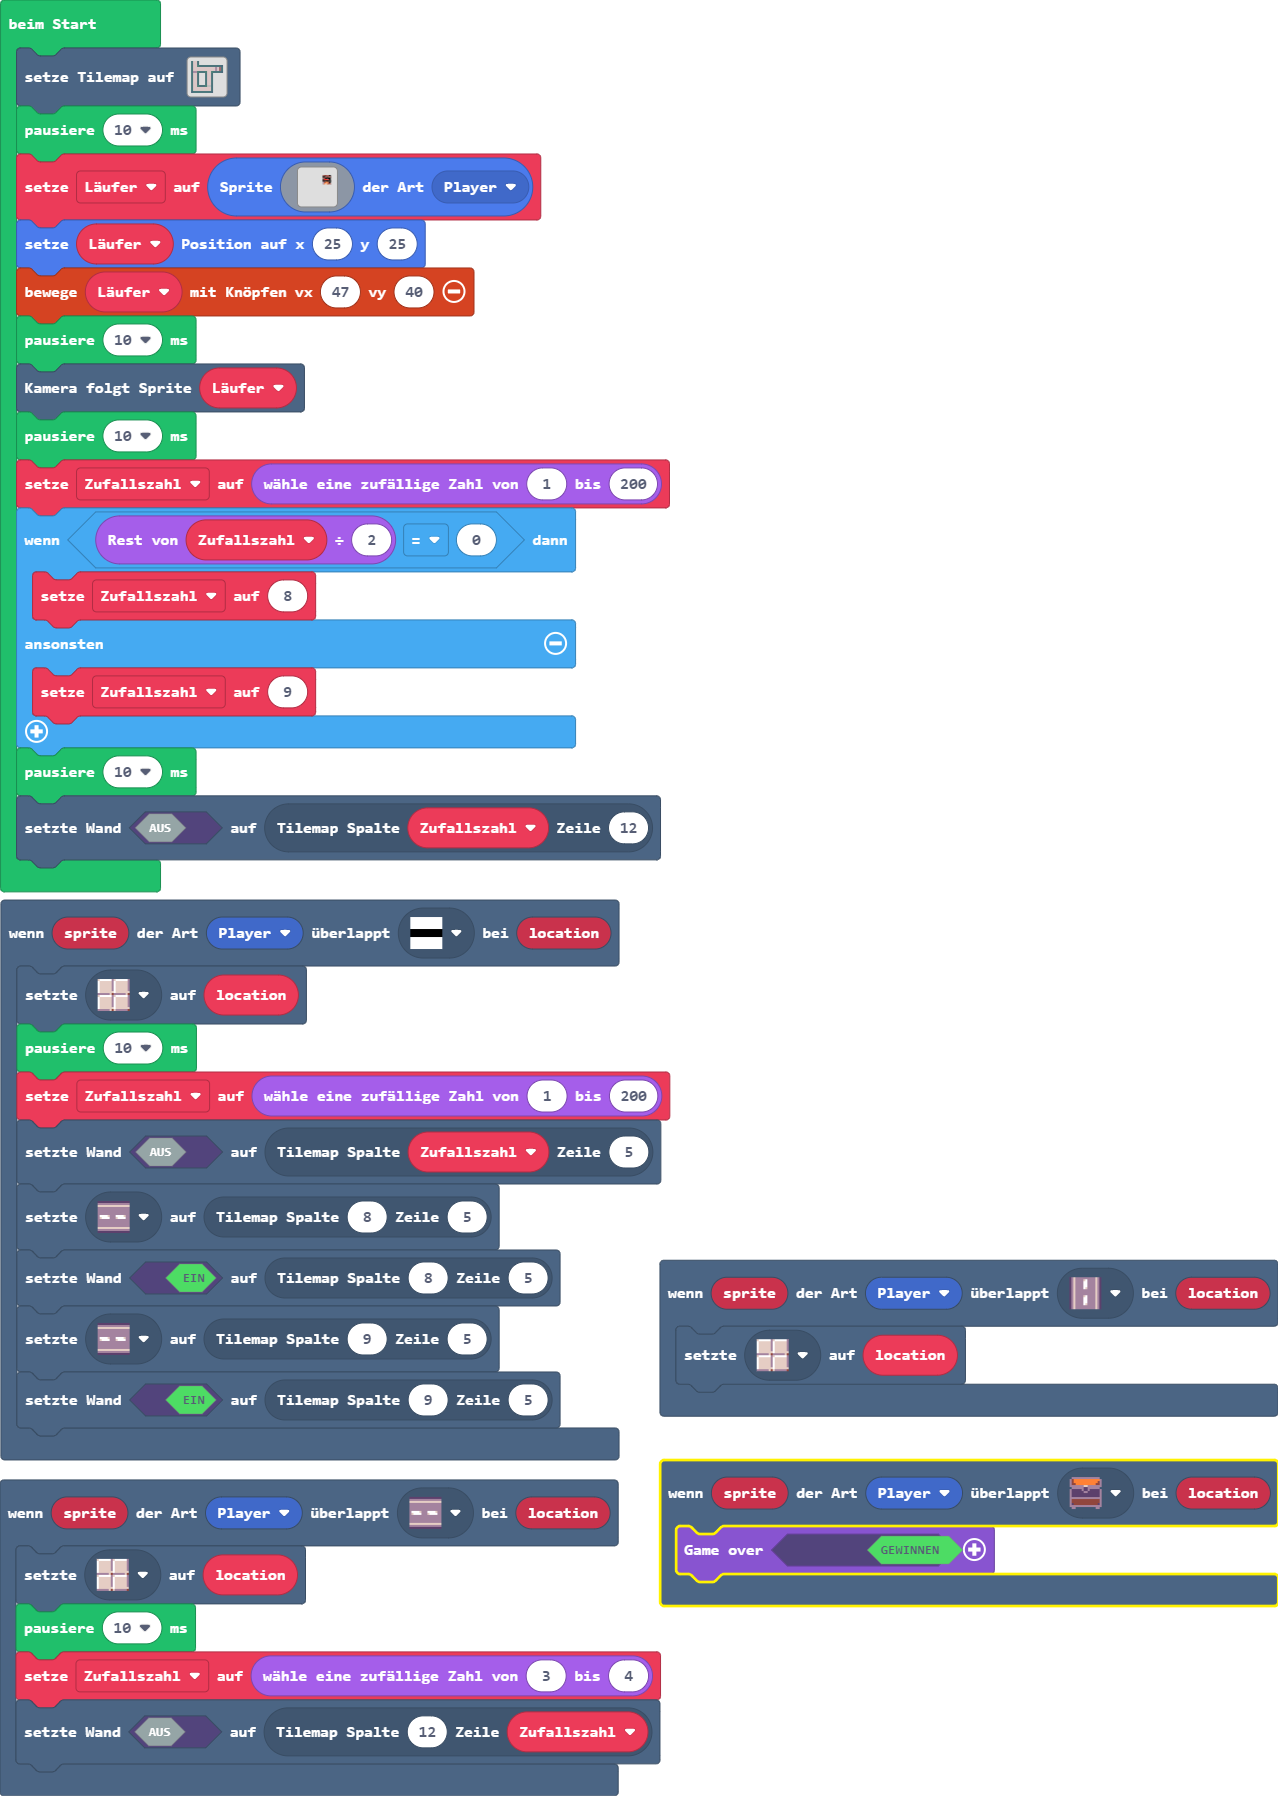
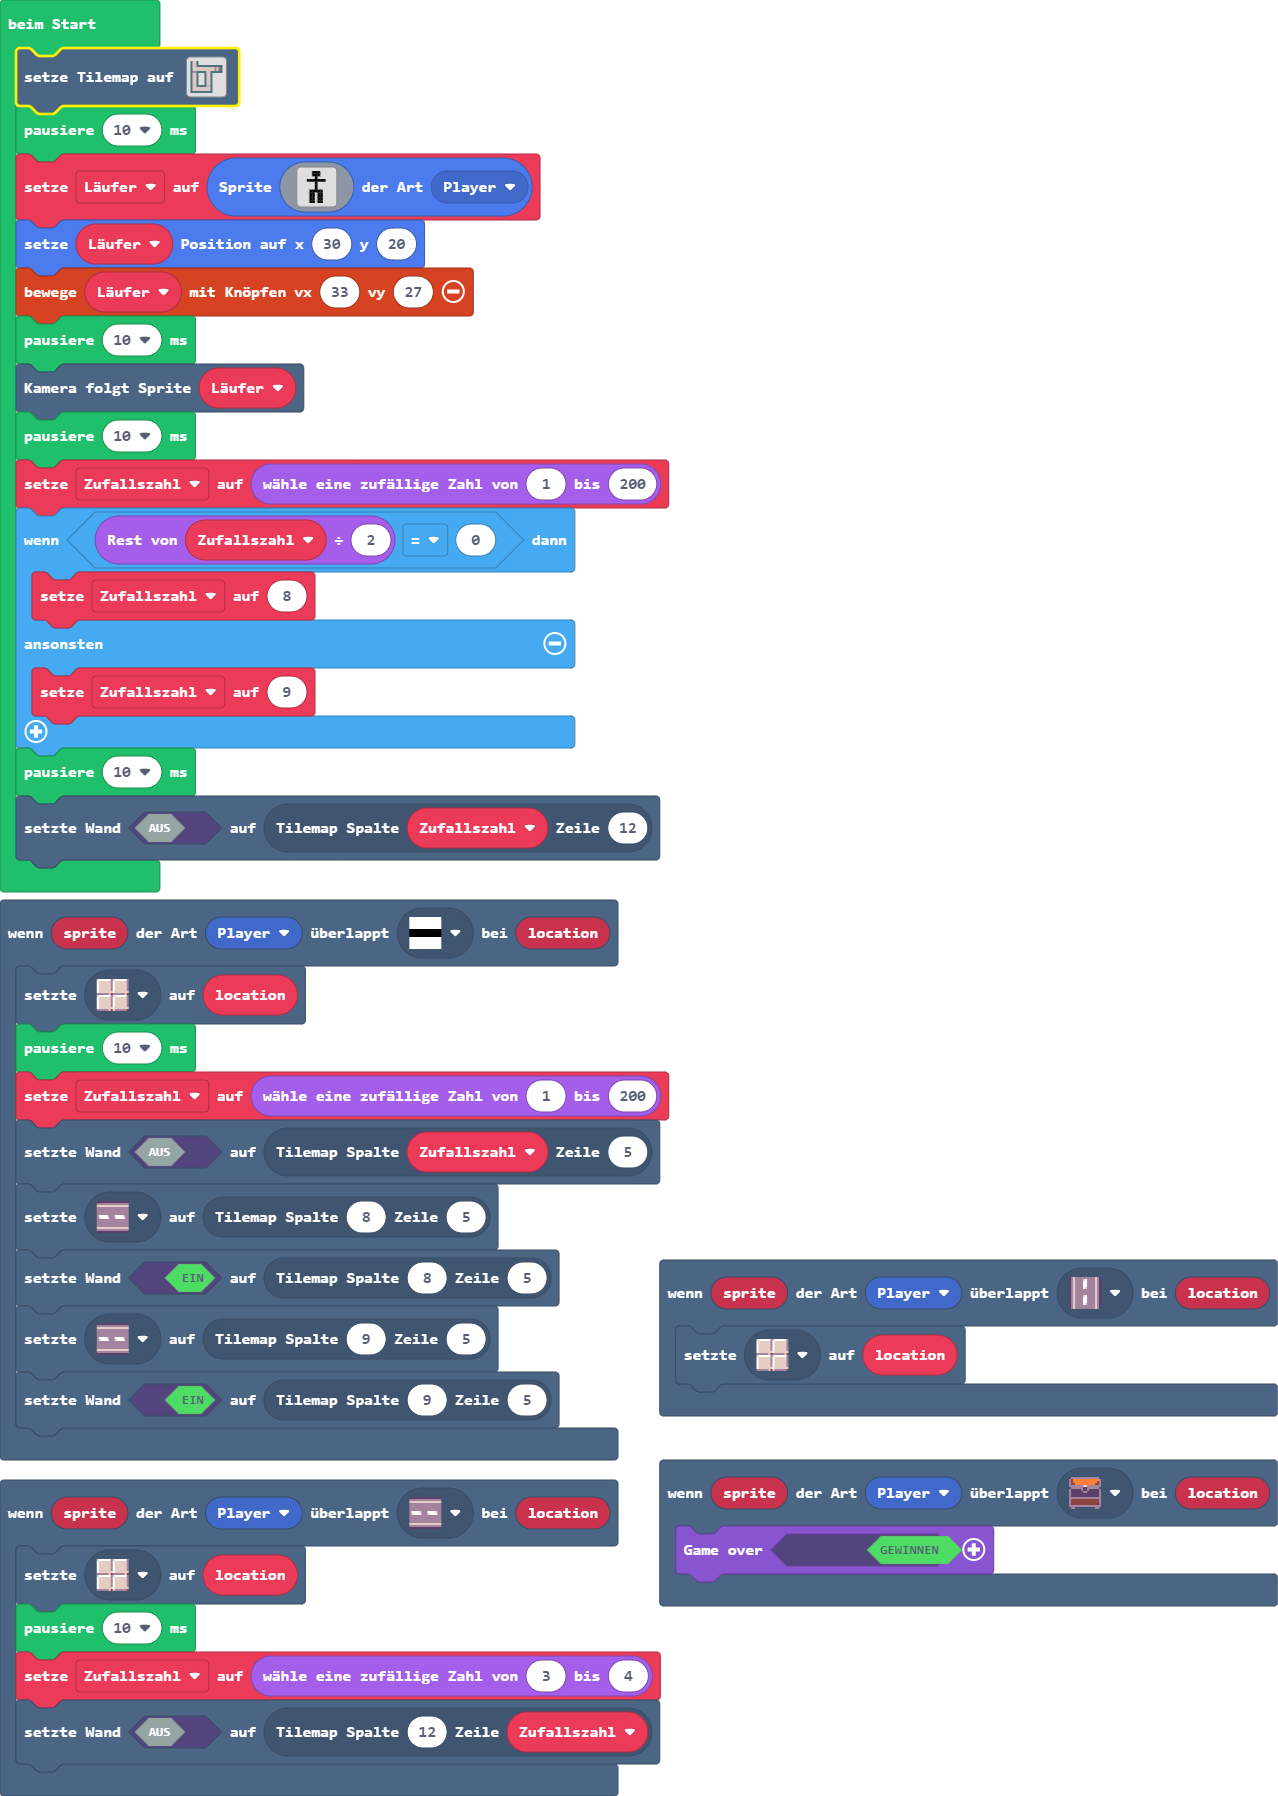
Aktualisiere main.blocks, main.ts

diff --git a/main.ts b/main.ts
@@ -25,8 +25,8 @@ tiles.setTilemap(tiles.createTilemap(hex`10001000080a0a0300000000000000000000000
     2 2 2 2 . . . . . . . . . . . . 
     2 . . 2 . . . . . . . . . . . . 
     2 . . 2 2 2 2 2 2 2 2 2 2 2 2 2 
-    2 . . . . . . . 2 . . . 2 . . 2 
-    2 . . . . . . . . . 2 . 2 . . 2 
+    2 . 2 . . . . . 2 . . . 2 . . 2 
+    2 . . . 2 . . . . . 2 . 2 . . 2 
     2 2 2 2 2 2 2 2 . . 2 2 2 2 2 2 
     2 . . 2 . . . 2 . . 2 . . . . . 
     2 . 2 2 . . . 2 . . 2 . . . . . 
@@ -41,33 +41,21 @@ tiles.setTilemap(tiles.createTilemap(hex`10001000080a0a0300000000000000000000000
     `, [myTiles.transparency16,sprites.dungeon.greenOuterWest0,sprites.dungeon.greenOuterSouthEast,sprites.dungeon.greenOuterWest1,sprites.dungeon.greenOuterSouth0,sprites.dungeon.greenOuterSouthWest,sprites.dungeon.greenOuterNorthWest,sprites.dungeon.greenOuterNorthEast,sprites.dungeon.greenOuterEast0,sprites.dungeon.greenOuterNorth0,sprites.dungeon.floorLight0,sprites.vehicle.roadHorizontal,sprites.vehicle.roadVertical,myTiles.tile2,sprites.dungeon.greenOuterNorth1,sprites.dungeon.chestOpen,sprites.dungeon.greenInnerNorthEast,sprites.dungeon.greenInnerSouthEast,sprites.dungeon.greenInnerSouthWest], TileScale.Sixteen))
 pause(10)
 let Läufer = sprites.create(img`
-    ........................
-    ........................
-    ........................
-    ................eeeeef..
-    ................ffeeee..
-    ................eeffff..
-    ................f222ef..
-    ................ffffff..
-    ................be44ef..
-    ................b4d4ee..
-    ........................
-    ........................
-    ........................
-    ........................
-    ........................
-    ........................
-    ........................
-    ........................
-    ........................
-    ........................
-    ........................
-    ........................
-    ........................
-    ........................
+    . . f f f . . 
+    . . f f f . . 
+    . . . f . . . 
+    f f f f f f f 
+    . . . f . . . 
+    . . . f . . . 
+    . . . f . . . 
+    . f f f f f . 
+    . f f . f f . 
+    . f f . f f . 
+    . f f . f f . 
+    . f f . f f . 
     `, SpriteKind.Player)
-Läufer.setPosition(25, 25)
-controller.moveSprite(Läufer, 47, 40)
+Läufer.setPosition(30, 20)
+controller.moveSprite(Läufer, 33, 27)
 pause(10)
 scene.cameraFollowSprite(Läufer)
 pause(10)
